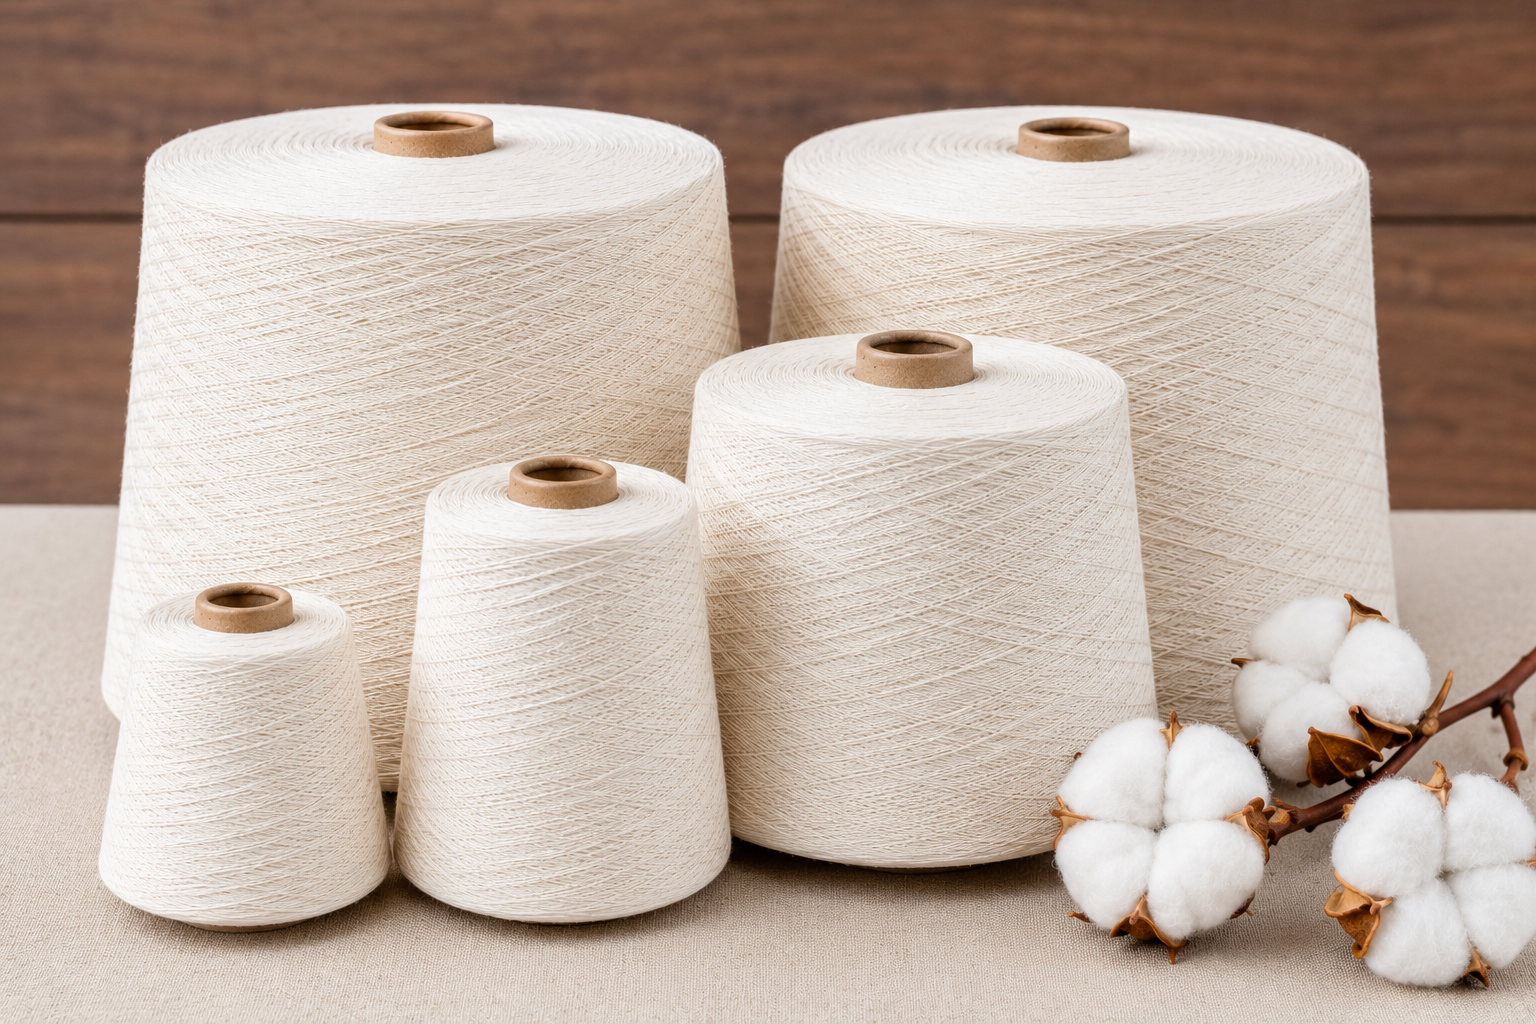
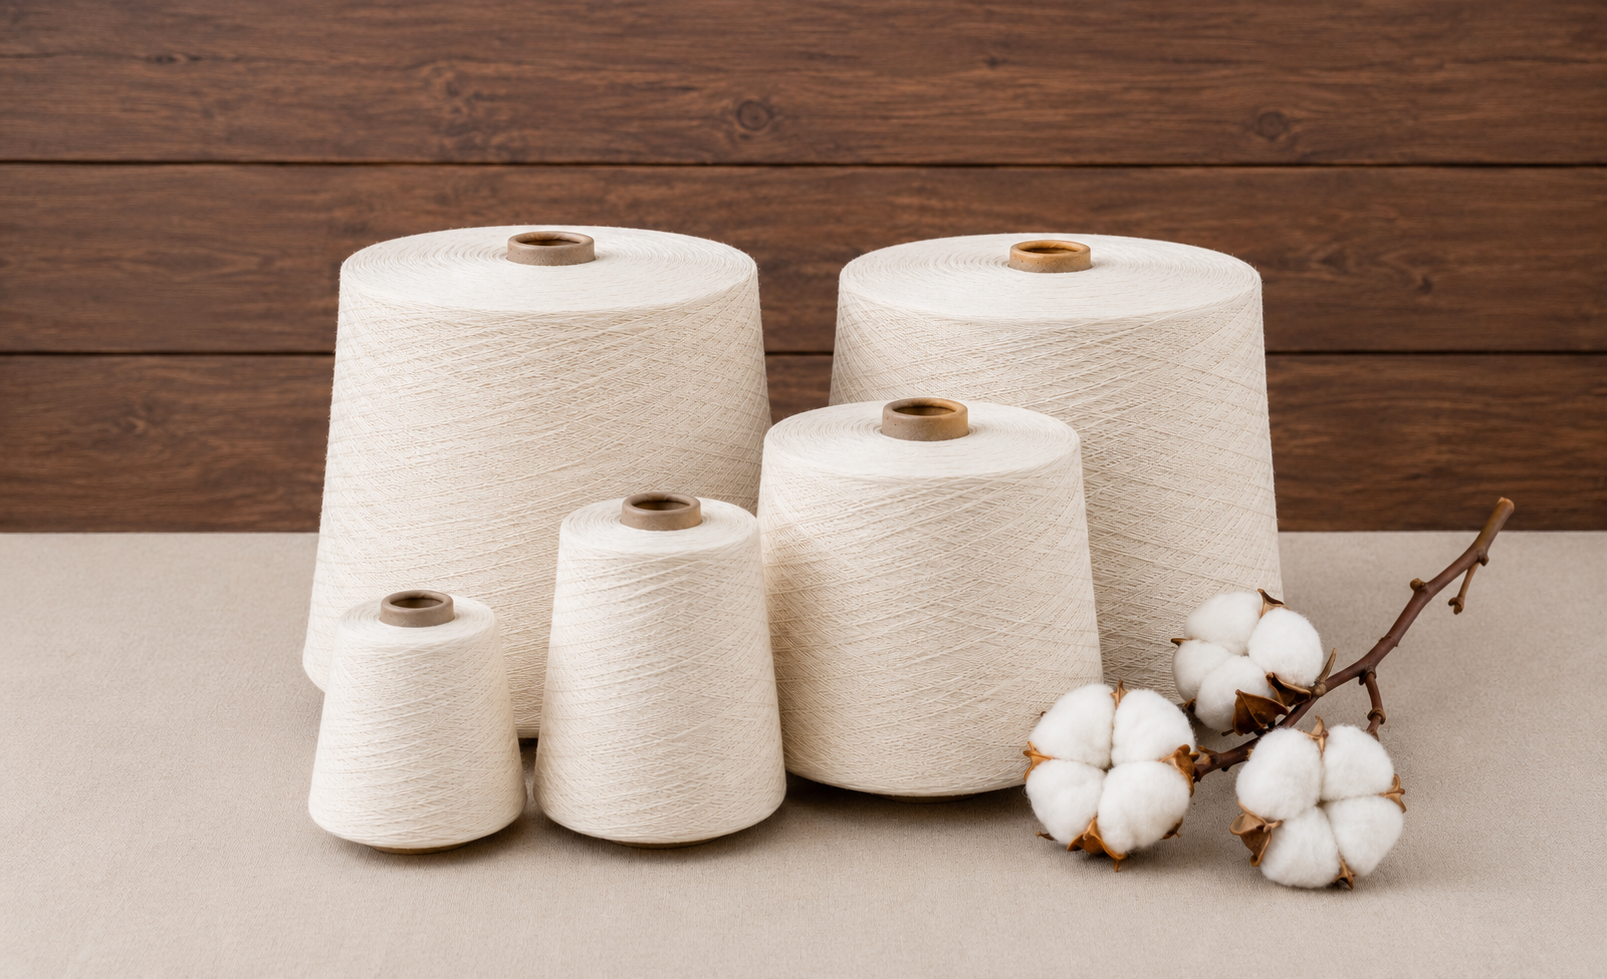
.

diff --git a/src/app/ourstory/page.tsx b/src/app/ourstory/page.tsx
@@ -80,37 +80,27 @@ export default function AboutPage() {
           </div>
           <div className={styles.productionGrid}>
             <Link href="/ourstory/yarn-knitting-ball" className={styles.productionCard}>
-              <div className={styles.productionImageWrapper}>
-                <img src="/story/1.png" alt="Yarn / Knitting Ball" className={styles.productionImage} />
-              </div>
+              <img src="/story/1.png" alt="Yarn / Knitting Ball" className={styles.productionImage} />
               <h3 className={styles.productionTitle}>Yarn / Knitting Ball</h3>
               <p className={styles.productionDesc}>Premium fibers selected for durability and comfort.</p>
             </Link>
             <Link href="/ourstory/circular-knitting-machine" className={styles.productionCard}>
-              <div className={styles.productionImageWrapper}>
-                <img src="/story/2.png" alt="Circular Knitting Machine" className={styles.productionImage} />
-              </div>
+              <img src="/story/2.png" alt="Circular Knitting Machine" className={styles.productionImage} />
               <h3 className={styles.productionTitle}>Circular Knitting Machine</h3>
               <p className={styles.productionDesc}>Advanced machinery weaving threads with precision.</p>
             </Link>
             <Link href="/ourstory/knitted-fabric" className={styles.productionCard}>
-              <div className={styles.productionImageWrapper}>
-                <img src="/story/3.png" alt="Knitted Fabric" className={styles.productionImage} />
-              </div>
+              <img src="/story/3.png" alt="Knitted Fabric" className={styles.productionImage} />
               <h3 className={styles.productionTitle}>Knitted Fabric</h3>
               <p className={styles.productionDesc}>High-quality textile rolls prepared for cutting.</p>
             </Link>
             <Link href="/ourstory/garment-cutting" className={styles.productionCard}>
-              <div className={styles.productionImageWrapper}>
-                <img src="/story/4.png" alt="Garment Cutting" className={styles.productionImage} />
-              </div>
+              <img src="/story/4.png" alt="Garment Cutting" className={styles.productionImage} />
               <h3 className={styles.productionTitle}>Garment Cutting</h3>
               <p className={styles.productionDesc}>Exact patterns cut to shape our signature silhouettes.</p>
             </Link>
             <Link href="/ourstory/garment-manufacturing" className={styles.productionCard}>
-              <div className={styles.productionImageWrapper}>
-                <img src="/story/5.png" alt="Garment Manufacturing" className={styles.productionImage} />
-              </div>
+              <img src="/story/5.png" alt="Garment Manufacturing" className={styles.productionImage} />
               <h3 className={styles.productionTitle}>Garment Manufacturing</h3>
               <p className={styles.productionDesc}>Expert tailoring and finishing into luxurious attire.</p>
             </Link>

diff --git a/src/components/layout/Header.tsx b/src/components/layout/Header.tsx
@@ -368,7 +368,7 @@ export default function Header() {
 
         /* Default mobile styling (for screens < 768px) */
         .logo-img {
-          max-height: 20px !important;
+          max-height: 40px !important;
           width: auto !important;
           flex-shrink: 1 !important;
         }
@@ -383,7 +383,7 @@ export default function Header() {
 
         .makeinindia-logo {
           width: 36px !important;
-          max-height: 24px !important;
+          max-height: 40px !important;
           height: auto !important;
           flex-shrink: 1 !important;
         }
